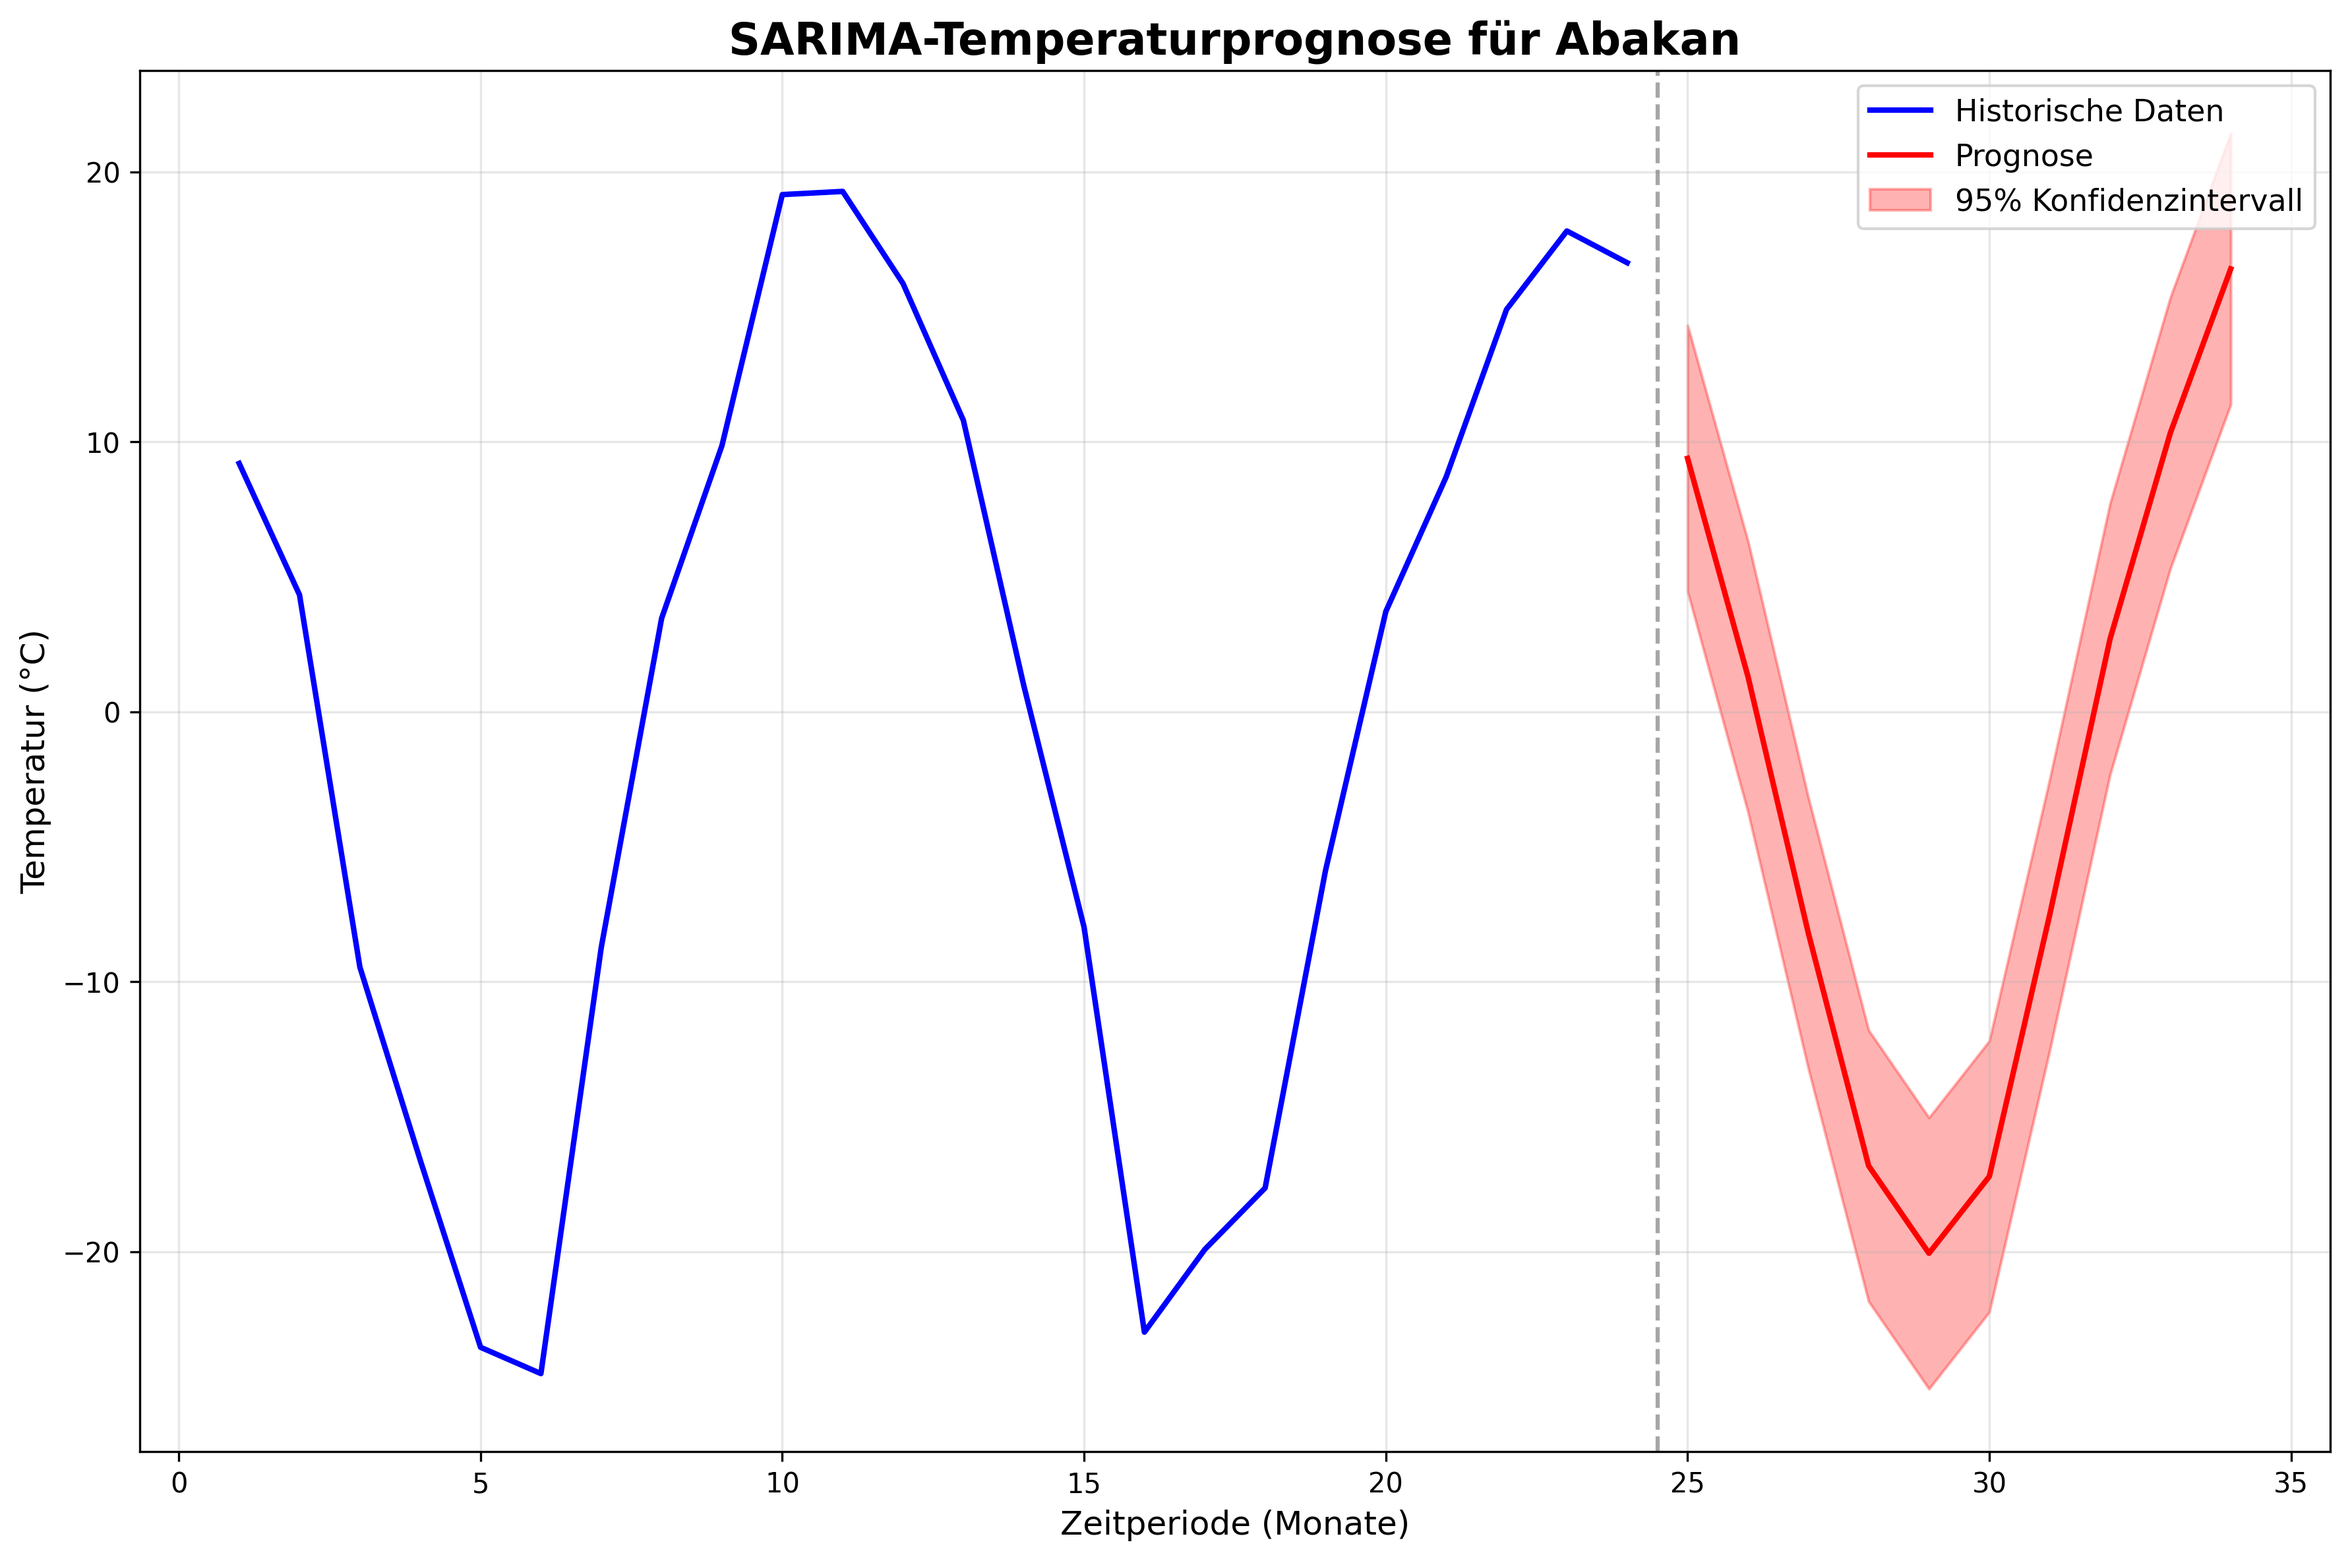
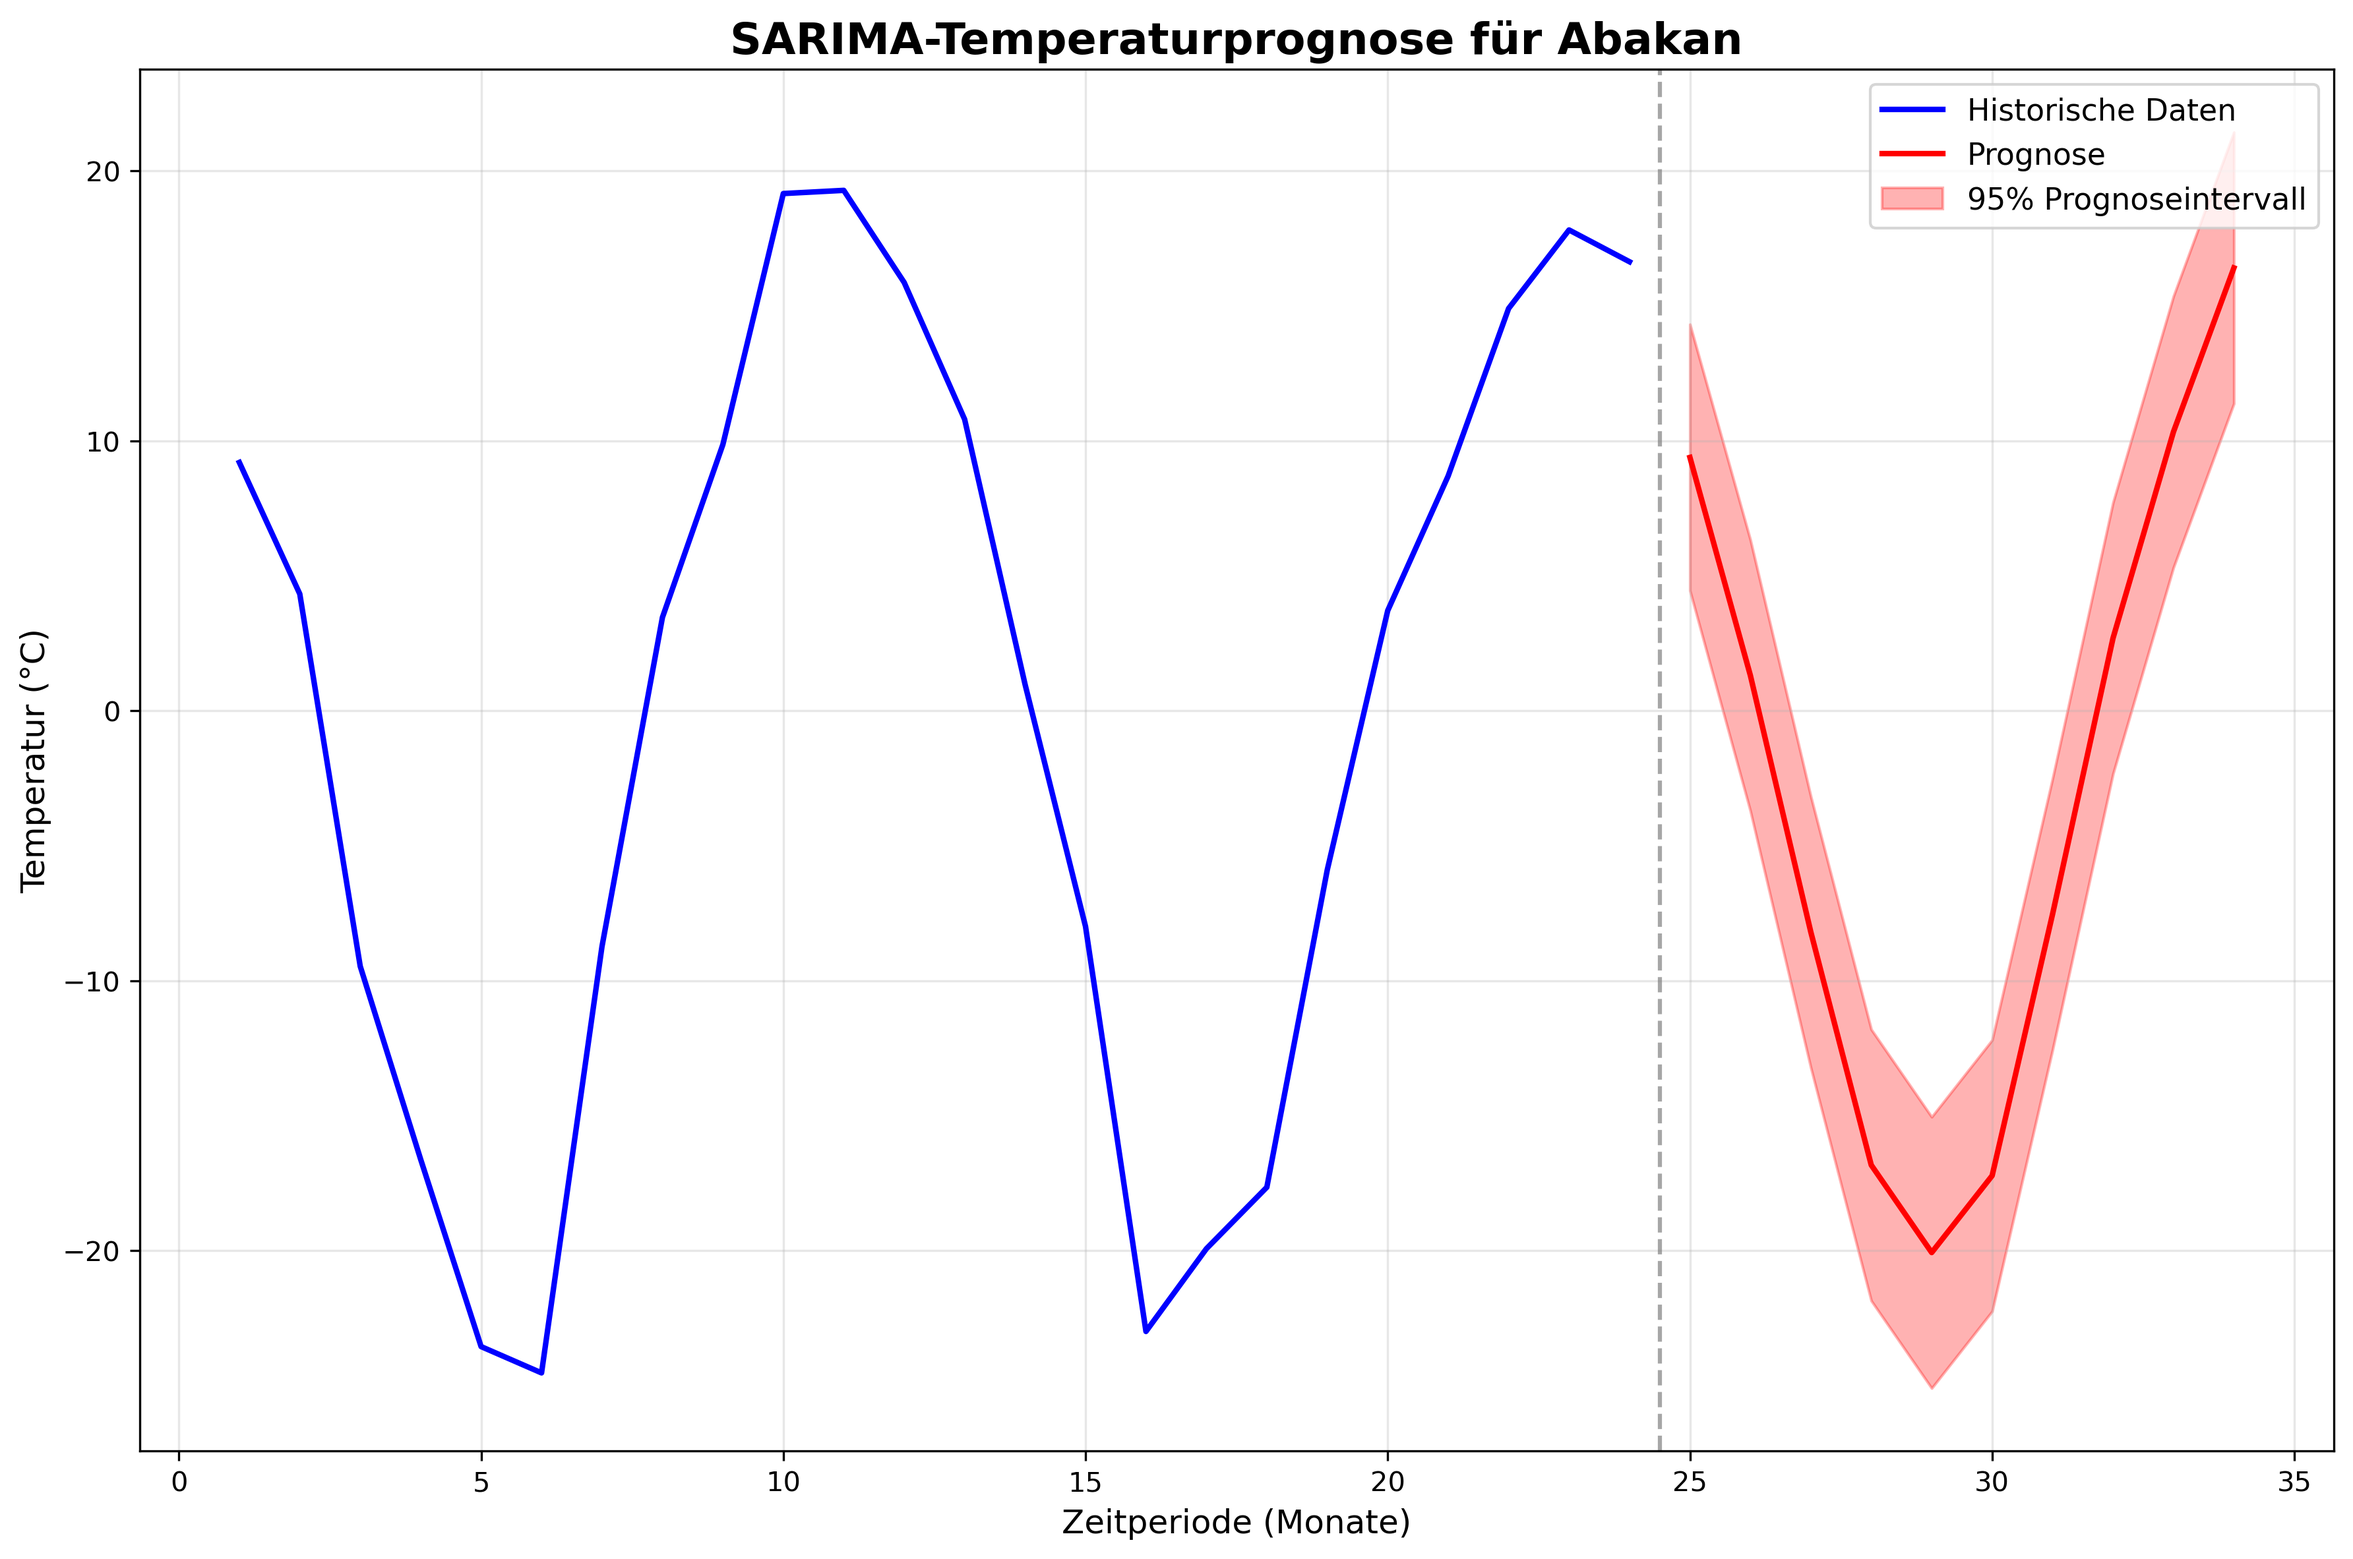
fix: Prognoseintervall

diff --git a/module/prognosebewertung/PrognoseMitRuecktransformation.py b/module/prognosebewertung/PrognoseMitRuecktransformation.py
@@ -73,8 +73,8 @@ def sarima_forecast_with_backtransform(city, diff_data, original_data, order, se
     # DataFrame für differenzierte Prognose
     forecast_df = pd.DataFrame({
         'Prognose_Differenziert': mean_forecast,
-        'Untere_KI_Differenziert': conf_int.iloc[:, 0],
-        'Obere_KI_Differenziert': conf_int.iloc[:, 1],
+        'Unteres_PI_Differenziert': conf_int.iloc[:, 0],
+        'Oberes_PI_Differenziert': conf_int.iloc[:, 1],
         'Datum': pd.date_range(start=original_data['Datum'].iloc[-1], periods=forecast_steps+1, freq='MS')[1:]
     })
 
@@ -92,8 +92,8 @@ def sarima_forecast_with_backtransform(city, diff_data, original_data, order, se
 
         for i in range(forecast_steps):
             val = prev_value + prev_season - prev_season_minus1 + forecast_df.iloc[i]['Prognose_Differenziert']
-            l = prev_value + prev_season - prev_season_minus1 + forecast_df.iloc[i]['Untere_KI_Differenziert']
-            u = prev_value + prev_season - prev_season_minus1 + forecast_df.iloc[i]['Obere_KI_Differenziert']
+            l = prev_value + prev_season - prev_season_minus1 + forecast_df.iloc[i]['Unteres_PI_Differenziert']
+            u = prev_value + prev_season - prev_season_minus1 + forecast_df.iloc[i]['Oberes_PI_Differenziert']
 
             absolute_forecast.append(val)
             lower_bound.append(l)
@@ -105,15 +105,15 @@ def sarima_forecast_with_backtransform(city, diff_data, original_data, order, se
         # Nur erste Differenz rücktransformieren
         last_value = temp_series.iloc[-1]
         absolute_forecast = last_value + np.cumsum(forecast_df['Prognose_Differenziert'].values)
-        lower_bound = last_value + np.cumsum(forecast_df['Untere_KI_Differenziert'].values)
-        upper_bound = last_value + np.cumsum(forecast_df['Obere_KI_Differenziert'].values)
+        lower_bound = last_value + np.cumsum(forecast_df['Unteres_PI_Differenziert'].values)
+        upper_bound = last_value + np.cumsum(forecast_df['Oberes_PI_Differenziert'].values)
 
     elif d_trans == 0 and D_trans == 1:
         # Nur saisonale Differenz rücktransformieren
         season_values = temp_series.iloc[-m:].values if len(temp_series) >= m else np.zeros(m)
         absolute_forecast = [season_values[i % m] + val for i, val in enumerate(forecast_df['Prognose_Differenziert'])]
-        lower_bound = [season_values[i % m] + val for i, val in enumerate(forecast_df['Untere_KI_Differenziert'])]
-        upper_bound = [season_values[i % m] + val for i, val in enumerate(forecast_df['Obere_KI_Differenziert'])]
+        lower_bound = [season_values[i % m] + val for i, val in enumerate(forecast_df['Unteres_PI_Differenziert'])]
+        upper_bound = [season_values[i % m] + val for i, val in enumerate(forecast_df['Oberes_PI_Differenziert'])]
 
     else:
         # Keine Rücktransformation nötig oder unbekannte Kombination
@@ -121,19 +121,19 @@ def sarima_forecast_with_backtransform(city, diff_data, original_data, order, se
         if d_trans == 0 and D_trans == 0:
             # Direkte Prognose ohne Rücktransformation
             absolute_forecast = forecast_df['Prognose_Differenziert'].values
-            lower_bound = forecast_df['Untere_KI_Differenziert'].values
-            upper_bound = forecast_df['Obere_KI_Differenziert'].values
+            lower_bound = forecast_df['Unteres_PI_Differenziert'].values
+            upper_bound = forecast_df['Oberes_PI_Differenziert'].values
         else:
             # Fallback: Einfache kumulative Summierung
             last_value = temp_series.iloc[-1]
             absolute_forecast = last_value + np.cumsum(forecast_df['Prognose_Differenziert'].values)
-            lower_bound = last_value + np.cumsum(forecast_df['Untere_KI_Differenziert'].values)
-            upper_bound = last_value + np.cumsum(forecast_df['Obere_KI_Differenziert'].values)
+            lower_bound = last_value + np.cumsum(forecast_df['Unteres_PI_Differenziert'].values)
+            upper_bound = last_value + np.cumsum(forecast_df['Oberes_PI_Differenziert'].values)
 
     # Absolute Werte zum DataFrame hinzufügen
     forecast_df['Absolute_Prognose'] = absolute_forecast
-    forecast_df['Absolute_Untere_KI'] = lower_bound
-    forecast_df['Absolute_Obere_KI'] = upper_bound
+    forecast_df['Absolutes_Unteres_PI'] = lower_bound
+    forecast_df['Absolutes_Oberes_PI'] = upper_bound
 
     return forecast_df
 
@@ -154,11 +154,11 @@ def create_forecast_plot(city, original_data, forecast_df, forecast_steps=10):
              forecast_df['Absolute_Prognose'],
              'r-', label='Prognose', linewidth=2)
 
-    # Konfidenzintervall
+    # Prognoseintervall
     plt.fill_between(range(historical_periods + 1, historical_periods + 1 + forecast_steps),
-                     forecast_df['Absolute_Untere_KI'],
-                     forecast_df['Absolute_Obere_KI'],
-                     color='red', alpha=0.3, label='95% Konfidenzintervall')
+                     forecast_df['Absolutes_Unteres_PI'],
+                     forecast_df['Absolutes_Oberes_PI'],
+                     color='red', alpha=0.3, label='95% Prognoseintervall')
 
     # Trennlinie zwischen historischen Daten und Prognose
     plt.axvline(x=historical_periods + 0.5, color='gray', linestyle='--', alpha=0.7)
